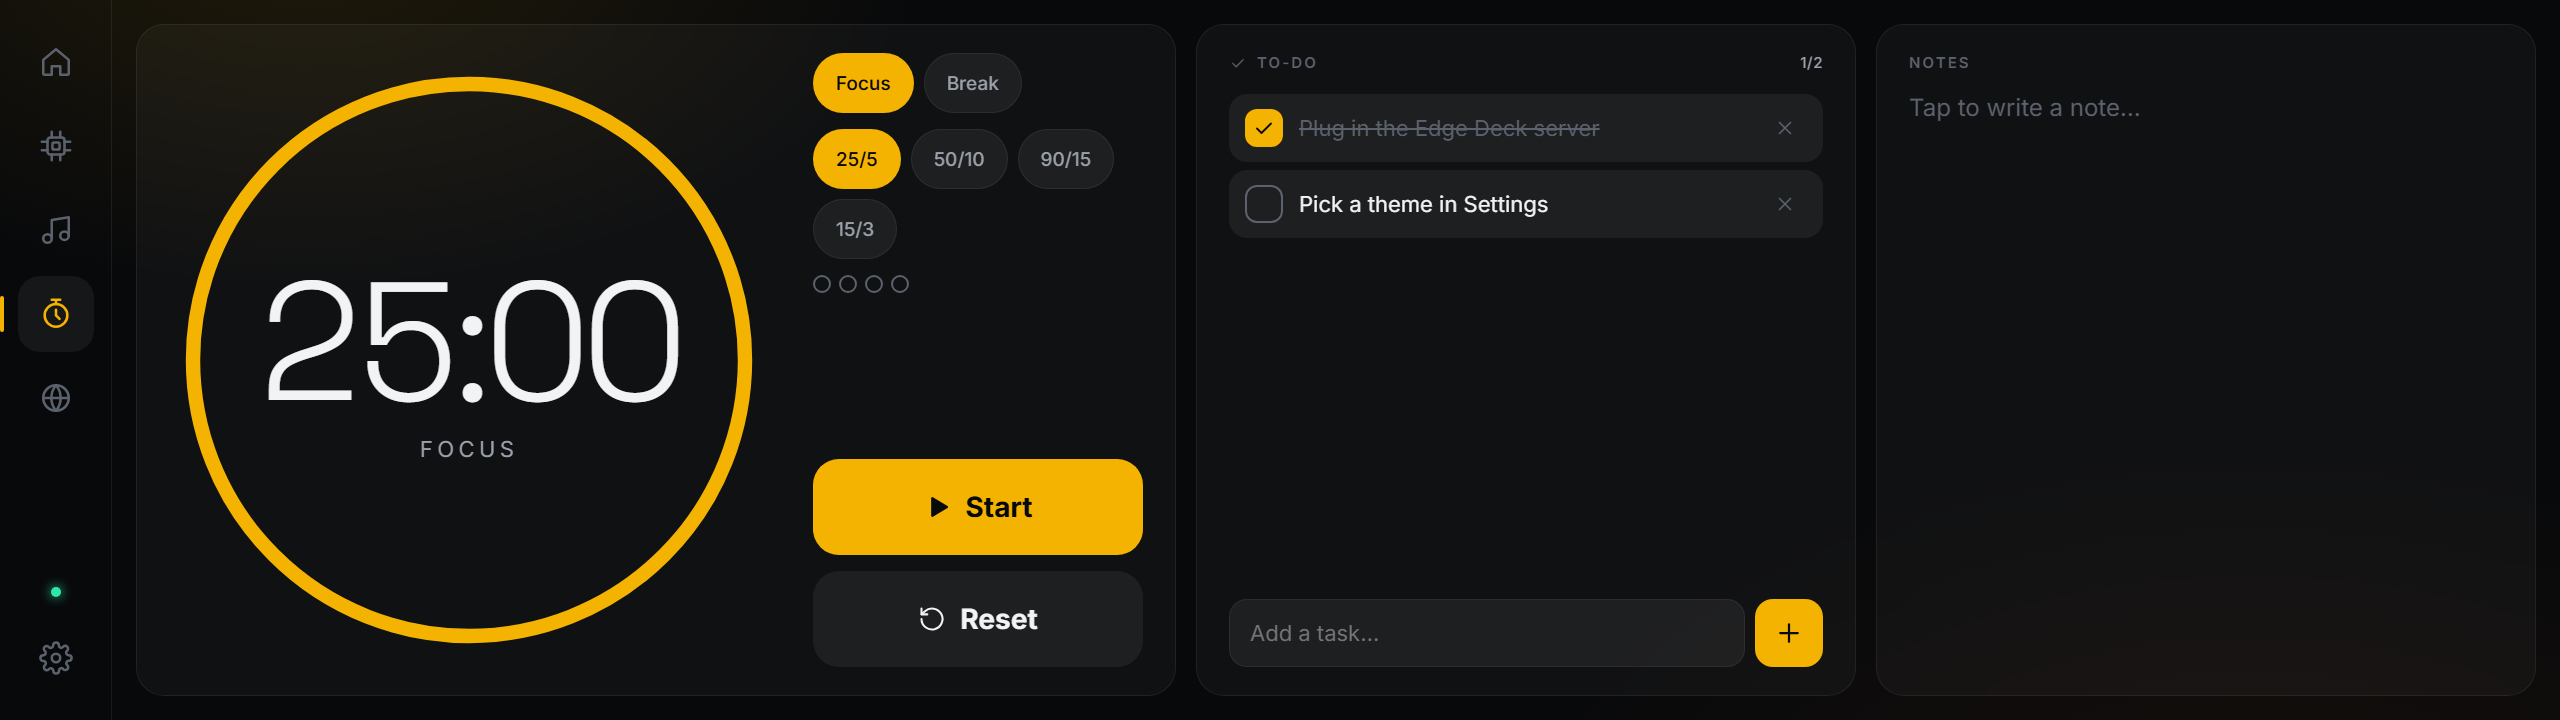
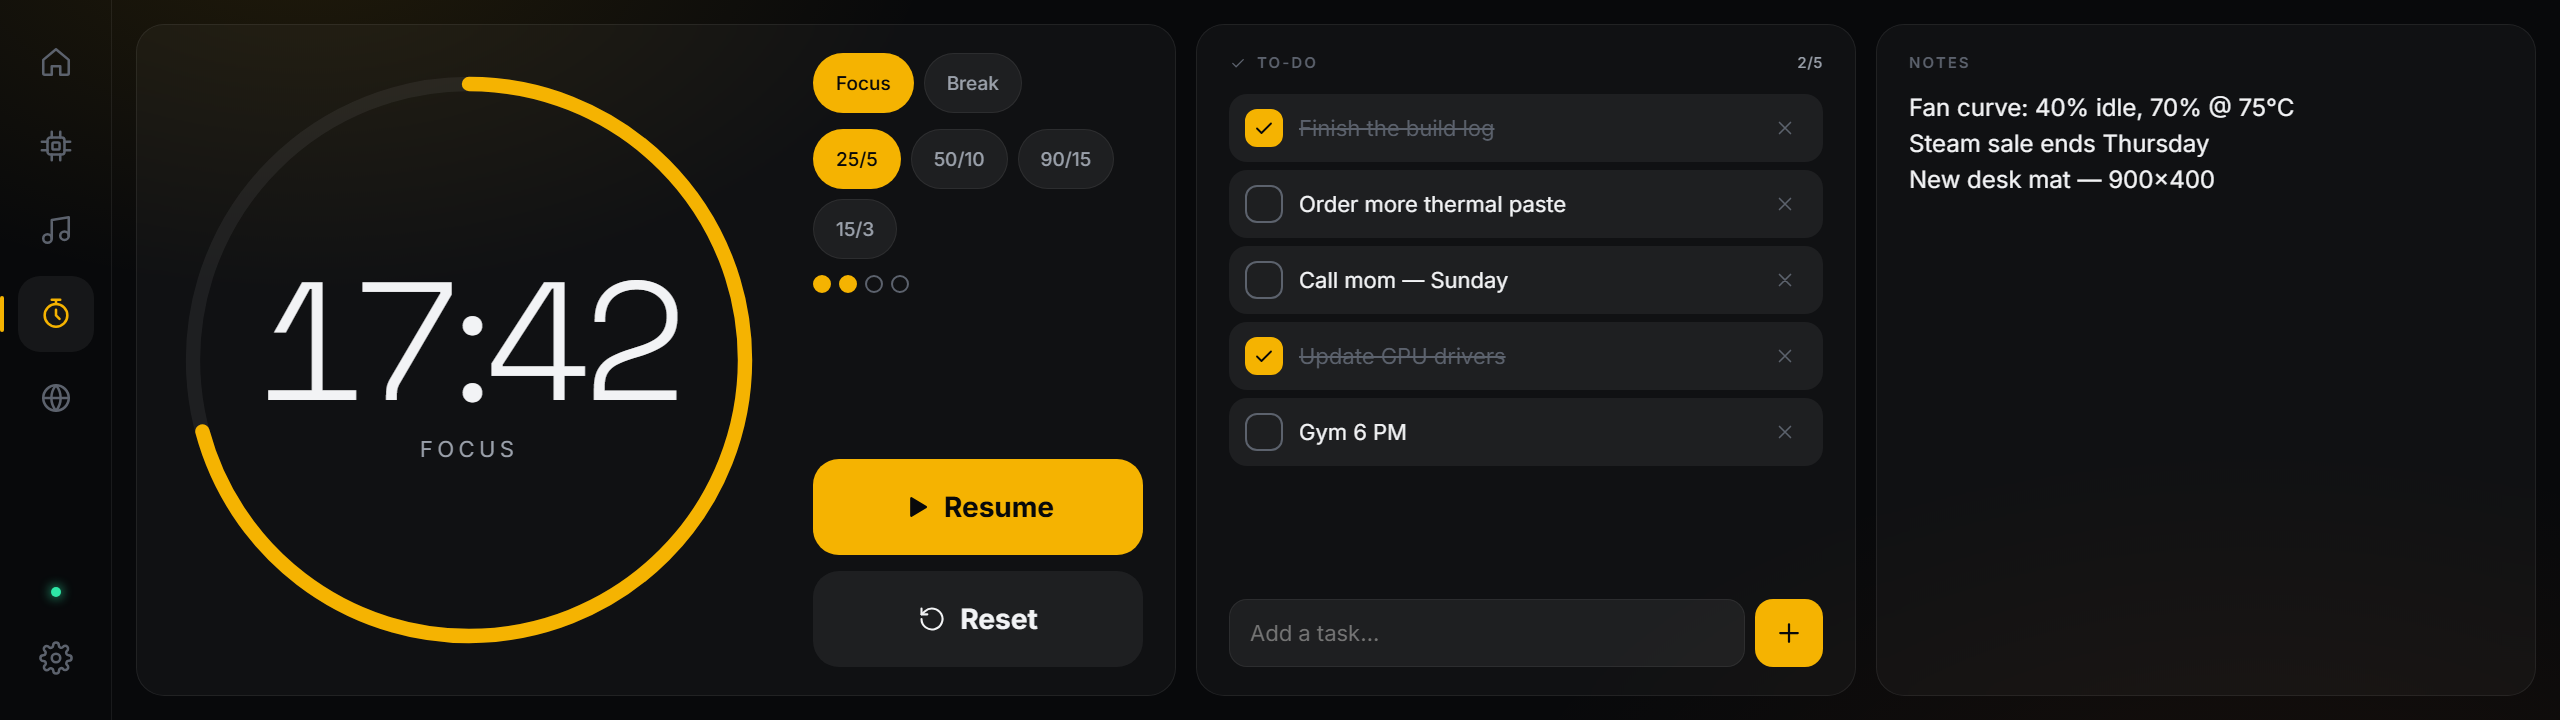
Add demo mode and README screenshot gallery
?demo renders sample data (no real host name or open tabs) and URL
overrides (theme, lang, accent, widgets) let tools/screenshots.ps1
render every page and theme at 2560x720 for the README.

diff --git a/public/app.js b/public/app.js
@@ -73,6 +73,7 @@ function merge(base, over) {
 }
 let saveTimer;
 function save() {
+  if (DEMO) return;
   try { localStorage.setItem('edgeDeck', JSON.stringify(S)); } catch {}
   clearTimeout(saveTimer);
   saveTimer = setTimeout(() => {
@@ -80,13 +81,58 @@ function save() {
   }, 600);
 }
 async function loadSettings() {
-  let local = null;
-  try { local = JSON.parse(localStorage.getItem('edgeDeck')); } catch {}
-  let remote = null;
-  try { remote = await (await fetch(API + '/api/settings', { cache: 'no-store' })).json(); } catch {}
+  let local = null, remote = null;
+  if (!DEMO) {
+    try { local = JSON.parse(localStorage.getItem('edgeDeck')); } catch {}
+    try { remote = await (await fetch(API + '/api/settings', { cache: 'no-store' })).json(); } catch {}
+  }
   S = merge(structuredClone(DEFAULTS), remote || local || {});
   // keep any widget ids added in newer versions
   for (const w of DEFAULTS.home) if (!S.home.find(h => h.id === w.id)) S.home.push({ ...w });
+  // URL overrides (not saved): ?theme=aurora&lang=tr&accent=%233ee0c5&widgets=clock,weather,calendar
+  if (params.get('theme')) S.theme = params.get('theme');
+  if (params.get('lang')) S.lang = params.get('lang');
+  if (params.get('accent')) S.accent = params.get('accent');
+  if (params.get('widgets')) {
+    const ids = params.get('widgets').split(',');
+    S.home = [...ids.map(id => ({ id, on: true })), ...S.home.filter(h => !ids.includes(h.id)).map(h => ({ ...h, on: false }))];
+  }
+  if (DEMO) {
+    S.dim.on = false;
+    S.todos = [
+      { t: 'Finish the build log', d: true }, { t: 'Order more thermal paste', d: false },
+      { t: 'Call mom — Sunday', d: false }, { t: 'Update GPU drivers', d: true }, { t: 'Gym 6 PM', d: false },
+    ];
+    S.notes = 'Fan curve: 40% idle, 70% @ 75°C\nSteam sale ends Thursday\nNew desk mat — 900×400';
+  }
+}
+
+// ---------------------------------------------------------------- demo data (?demo) for screenshots
+const DEMO = params.has('demo');
+let demoT = 0;
+const walk = {};
+function demoStats() {
+  demoT++;
+  // smooth random walk per key, so graphs look like real load
+  const w = (a, f, o = 0) => {
+    const k = `${a}|${f}|${o}`;
+    walk[k] = clamp((walk[k] ?? 0) * .85 + (Math.random() - .5) * .9 + .12 * Math.sin(demoT / (f * 3) + o), -1, 1);
+    return a * walk[k];
+  };
+  const cpu = 34 + w(12, 3) + w(6, 1.3, 1);
+  return {
+    online: true, host: 'GAMING-PC',
+    cpu: { load: cpu, cores: Array.from({ length: 16 }, (_, i) => Math.max(4, Math.round(cpu + w(22, 2 + i % 5, i)))), model: 'AMD Ryzen 7 7800X3D 8-Core Processor', temp: 61 + w(4, 4) },
+    ram: { used: 19.4 * 2 ** 30 + w(2 ** 29, 6), total: 32 * 2 ** 30 },
+    uptime: 3 * 86400 + 5 * 3600 + 42 * 60,
+    gpu: { name: 'NVIDIA GeForce RTX 4080 SUPER', load: 58 + w(18, 2.5) + w(8, 0.9, 2), temp: 64 + w(3, 5), vramUsed: 9.6 * 2 ** 30, vramTotal: 16 * 2 ** 30, power: 238 + w(30, 2) },
+    net: { down: 4.2e6 + w(2.6e6, 2.2) + w(1e6, 0.7, 1), up: 6.5e5 + w(3e5, 1.8, 2) },
+    disks: [
+      { name: 'C:', label: 'System', size: 2e12, free: 0.74e12 }, { name: 'D:', label: 'Games', size: 4e12, free: 1.1e12 },
+      { name: 'E:', label: 'Media', size: 2e12, free: 1.42e12 },
+    ],
+    media: { title: 'Midnight Drive', artist: 'Neon Avenue', album: 'City Lights', app: 'Spotify.exe', status: 'Playing', position: 94, duration: 213, updated: Date.now() },
+  };
 }
 
 // ---------------------------------------------------------------- scaling
@@ -191,8 +237,10 @@ const HIST_N = 150;
 function push(k, v) { hist[k].push(v); if (hist[k].length > HIST_N) hist[k].shift(); }
 async function pollStats() {
   try {
-    const r = await fetch(API + '/api/stats', { cache: 'no-store' });
-    stats = await r.json();
+    if (DEMO) {
+      if (!hist.cpu.length) for (let i = 0; i < HIST_N - 1; i++) { const d = demoStats(); push('cpu', d.cpu.load); push('ram', 60); push('gpu', d.gpu.load); push('down', d.net.down); push('up', d.net.up); }
+      stats = demoStats();
+    } else stats = await (await fetch(API + '/api/stats', { cache: 'no-store' })).json();
     push('cpu', stats.cpu.load);
     push('ram', stats.ram.used / stats.ram.total * 100);
     push('gpu', stats.gpu?.load ?? 0);
@@ -257,6 +305,11 @@ document.addEventListener('click', (e) => {
 // ---------------------------------------------------------------- launcher
 let launchers = [];
 async function loadLaunchers() {
+  if (DEMO) {
+    launchers = [['steam', 'Steam', '#66c0f4'], ['discord', 'Discord', '#5865f2'], ['spotify', 'Spotify', '#1ed760'], ['globe', 'Browser', '#f5a524'], ['play', 'YouTube', '#ff3b3b'], ['folder', 'Files', '#ffd166']]
+      .map(([icon, name, color]) => ({ id: icon, icon, name, color }));
+    return;
+  }
   try { launchers = (await (await fetch(API + '/api/config')).json()).launchers; } catch { launchers = []; }
 }
 document.addEventListener('click', async (e) => {
@@ -556,7 +609,7 @@ function renderSystemPage(full = true) {
   $('[data-ramb]', pg).style.width = rp + '%';
   $('[data-disks]', pg).innerHTML = (stats.disks || []).slice(0, 4).map(d => {
     const used = d.size - d.free;
-    return `<div class="disk"><div class="row"><span>${esc(d.name)} ${esc(d.label || '')}</span><span class="muted">${fmtBytes(d.free, 0)} ${T('free')}</span></div>
+    return `<div class="disk"><div class="row"><span>${esc(d.name)} ${esc(d.label || '')}</span><span class="muted">${fmtBytes(d.free, d.free >= 2 ** 40 ? 1 : 0)} ${T('free')}</span></div>
       <div class="bar"><i style="width:${used / d.size * 100}%"></i></div></div>`;
   }).join('');
   $('[data-upt]', pg).textContent = fmtUptime(stats.uptime);
@@ -926,7 +979,8 @@ async function boot() {
   applyTheme();
   await loadLaunchers();
   renderHome();
-  let start = 'home'; try { start = sessionStorage.getItem('edgeDeckPage') || params.get('page') || 'home'; } catch {}
+  if (DEMO) { pomo.remaining = 17 * 60 + 42; pomo.sessions = 2; }
+  let start = params.get('page') || 'home'; try { start = params.get('page') || sessionStorage.getItem('edgeDeckPage') || 'home'; } catch {}
   go(ORDER.includes(start) ? start : 'home');
   pollStats(); setInterval(pollStats, 1500);
   loadWeather(); setInterval(loadWeather, 15 * 60e3);

diff --git a/README.md b/README.md
@@ -5,6 +5,8 @@ Saat, hava durumu (Charlotte ve İstanbul), bilgisayarın canlı CPU / GPU / RAM
 
 ![Ana ekran](screenshots/home.png)
 
+<p align="center"><a href="#kurulum-2-dakika-teknik-bilgi-gerekmez"><b>Kurulum</b></a> · <a href="#ekran-görüntüleri"><b>Ekran görüntüleri</b></a> · <a href="#temalar"><b>Temalar</b></a> · <a href="#kullanım"><b>Kullanım</b></a></p>
+
 ---
 
 ## Kurulum (2 dakika, teknik bilgi gerekmez)
@@ -26,6 +28,43 @@ iCUE, Edge ekranını kendi widget'ları için kullanıyor olabilir. Şu iki yol
   ```
   http://localhost:5280
   ```
+
+---
+
+## Ekran görüntüleri
+
+Hepsi Edge'in gerçek çözünürlüğünde (2560×720). Görüntülerdeki veriler örnek veridir.
+
+**Türkçe arayüz:** Ayarlar'dan tek dokunuşla.
+![Türkçe ana ekran](screenshots/home-tr.png)
+
+**Sistem:** CPU çekirdekleri, ekran kartı, ağ ve disk grafikleri.
+![Sistem](screenshots/system.png)
+
+**Medya:** Spotify, YouTube ya da Windows'ta çalan her şey.
+![Medya](screenshots/media.png)
+
+**Odak:** Pomodoro sayacı, yapılacaklar ve notlar.
+![Odak](screenshots/focus.png)
+
+**Dünya saatleri:** Charlotte, İstanbul ve istediğiniz şehirler.
+![Dünya saatleri](screenshots/world.png)
+
+**Farklı ana ekran düzeni:** Bileşenler Ayarlar'dan açılıp kapatılır ve sıralanır.
+![Farklı düzen](screenshots/layout-alt.png)
+
+**Ayarlar:** Dil, tema, renk, düzen ve şehirler.
+![Ayarlar](screenshots/settings-tr.png)
+
+## Temalar
+
+6 hazır tema ve 9 vurgu rengi var.
+
+| | |
+|---|---|
+| **Aurora** ![Aurora](screenshots/theme-aurora.png) | **Synthwave** ![Synthwave](screenshots/theme-synthwave.png) |
+| **Ember** (takvim + dünya saatleri düzeniyle) ![Ember](screenshots/theme-ember.png) | **Terminal** ![Terminal](screenshots/theme-terminal.png) |
+| **Paper** (gündüz için açık tema) ![Paper](screenshots/theme-paper.png) | **Obsidian** (varsayılan) ![Obsidian](screenshots/home.png) |
 
 ---
 
